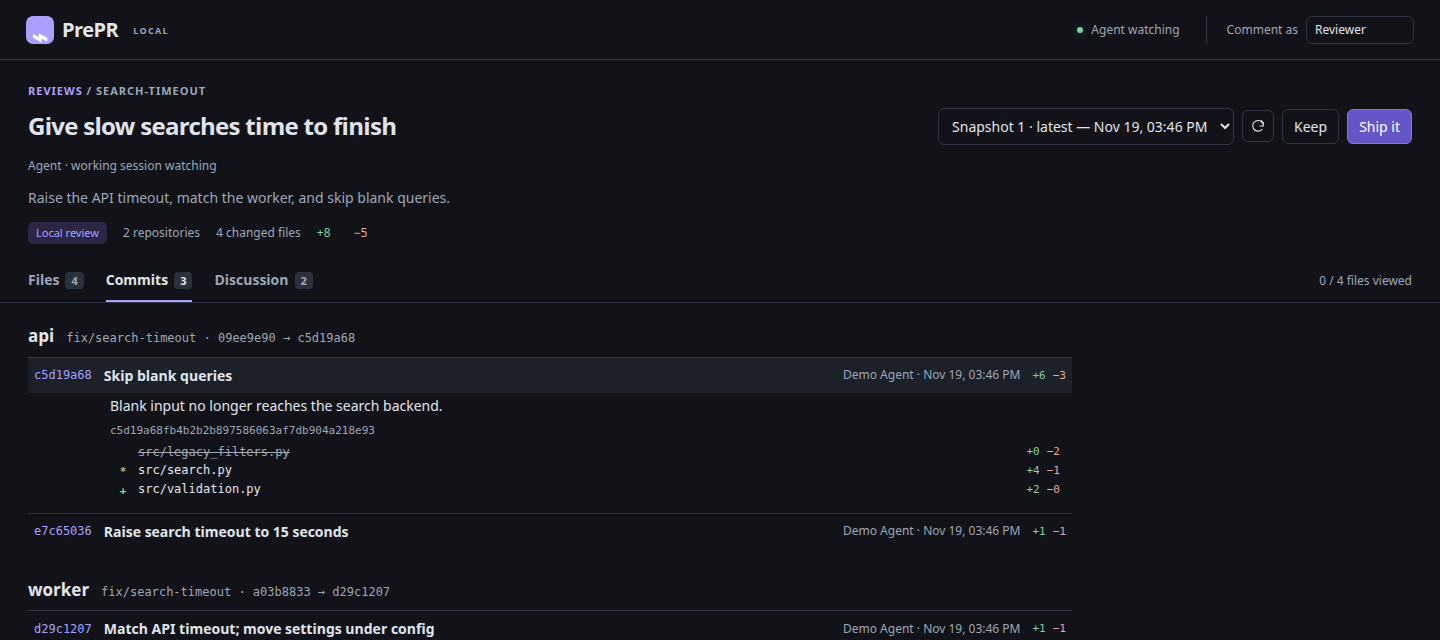
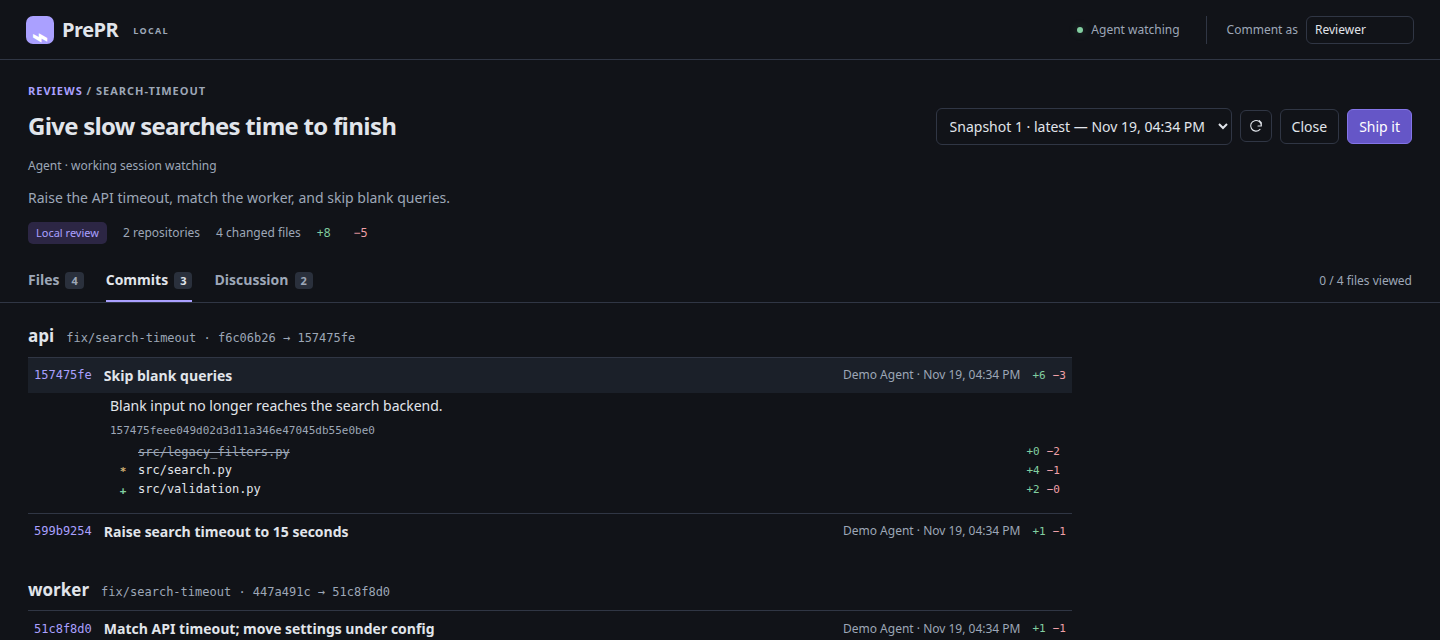
feat: rename Keep to Close; record PRs sent from chat
- Button Close, token Closed; decision action close, status closed.
- Old keep/kept rows migrate on start; API still accepts action keep.
- review.py close / mark-sent: chat-ended tasks leave Active (Closed or PR submitted).
- Skill: keep PrePR in step when PRs are sent or task ends in chat.
- READMEs, screenshots updated. Extension 0.2.1.

diff --git a/static/app.js b/static/app.js
@@ -91,7 +91,7 @@ function renderShell() {
   const tools=el('div','title-tools');const versions=el('select');versions.setAttribute('aria-label','Review snapshot');
   r.snapshots.forEach((v,i)=>{const o=el('option','',`Snapshot ${r.snapshots.length-i}${i===0?' · latest':''} — ${time(v.created)}`);o.value=v.id;versions.append(o);});versions.value=r.snapshot;
   versions.addEventListener('change',()=>{if(!canNavigate()){versions.value=r.snapshot;return;}openReview(r.id,Number(versions.value)).catch(e=>toast(e.message));});
-  tools.append(versions,iconBtn('Refresh','refresh',refresh),btn('Keep',()=>PreprLive.decide('keep'),'review-keep'),btn('Ship it',()=>PreprLive.decide('ship'),'primary review-ship'));title.append(tools);header.append(title);
+  tools.append(versions,iconBtn('Refresh','refresh',refresh),btn('Close',()=>PreprLive.decide('close'),'review-close'),btn('Ship it',()=>PreprLive.decide('ship'),'primary review-ship'));title.append(tools);header.append(title);
   header.append(el('div','live-review-status'));
   if(globalThis.PreprLive)PreprLive.refresh();
   if(r.description)header.append(el('p','description',r.description));
@@ -357,8 +357,8 @@ function renderDiscussion(){const panel=document.querySelector('.discussion');pa
   await openReview(state.review.id,null,selection);let node=document.querySelector(`[data-thread="${t.id}"]`);
   if(!node){await openReview(state.review.id,t.snapshot_id,selection);node=document.querySelector(`[data-thread="${t.id}"]`);}node?.scrollIntoView({block:'center'});},'anchor-link'),el('pre','anchor-code',t.side==='file'?'Comment on file':t.code),renderThread(t));panel.append(item);}
 }
-// Home: Active vs Completed (kept, shipped, blocked).
-const completed=r=>['kept','shipped','blocked'].includes(r.decision?.status);
+// Home: Active vs Completed (closed, shipped, blocked).
+const completed=r=>['closed','shipped','blocked'].includes(r.decision?.status);
 async function home(tab){
   if(tab)state.homeTab=tab;state.homeTab=state.homeTab||(new URLSearchParams(location.search).get('tab')==='completed'?'completed':'active');
   const reviews=await api('/api/reviews'),done=reviews.filter(completed),active=reviews.filter(r=>!completed(r));
@@ -373,14 +373,14 @@ async function home(tab){
   for(const r of list){
     const item=el('div','review-item'),link=el('a','review-link');link.href=`/?review=${encodeURIComponent(r.id)}`;link.append(el('h2','',r.title),el('p','',r.description));
     const meta=el('div','meta-line'),d=r.decision;meta.append(el('span','',r.id));
-    if(d){const [cls,text]={kept:['kept','Kept'],shipped:['shipped','PR submitted'],blocked:['blocked','Ship blocked'],requested:['pending','Ship requested'],preparing:['pending','Creating PRs']}[d.status];meta.append(el('span','status-token '+cls,text));}
+    if(d){const [cls,text]={closed:['closed','Closed'],shipped:['shipped','PR submitted'],blocked:['blocked','Ship blocked'],requested:['pending','Ship requested'],preparing:['pending','Creating PRs']}[d.status];meta.append(el('span','status-token '+cls,text));}
     if(!completed(r))meta.append(el('span','',`${r.openThreads} open threads`));
     meta.append(el('span','',`Updated ${time(r.updated)}`));link.append(meta);item.append(link);
     if(completed(r))item.append(iconBtn('Delete review','trash',async()=>{if(!await ask(`Delete “${r.title}” with its snapshots and comments? This cannot be undone.`,'Delete'))return;await api('/api/reviews/'+encodeURIComponent(r.id),{},'DELETE');toast('Review deleted');await home();},'delete-review'));
     page.append(item);
   }
   if(!list.length){const empty=el('div','empty-state');
-    if(state.homeTab==='completed')empty.append(el('h2','','No completed reviews'),el('p','','Reviews you Keep or Ship appear here.'));
+    if(state.homeTab==='completed')empty.append(el('h2','','No completed reviews'),el('p','','Reviews you Close or Ship appear here.'));
     else empty.append(el('h2','','Ready for your first review'),el('p','','Your agent publishes one through the prepr-review skill.'),el('code','','python3 review.py publish task.json'));
     page.append(empty);}
   app.replaceChildren(page);hostPost({type:'prepr:location',title:'Reviews',href:location.href});

diff --git a/static/live-review.js b/static/live-review.js
@@ -20,7 +20,7 @@
       state.watcher=w;paintActivity();
       state.review.decision=result.decision;
       for(const button of document.querySelectorAll('.review-ship'))button.disabled=!!result.decision;
-      for(const button of document.querySelectorAll('.review-keep'))button.disabled=!!result.decision;
+      for(const button of document.querySelectorAll('.review-close'))button.disabled=!!result.decision;
       for(const button of document.querySelectorAll('.review-edit'))button.disabled=!!result.decision;
       let feedback;
       if(result.watcher){
@@ -38,7 +38,7 @@
       const signature=JSON.stringify([result,feedback?.latestSnapshot]);if(holder.dataset.signature===signature)return;
       holder.dataset.signature=signature;holder.replaceChildren();
       if(result.decision){
-        const d=result.decision,labels={kept:'Kept locally · review closed',requested:'Ship it requested · waiting for the working agent',preparing:'Working agent preparing pull requests',shipped:'Pull requests created · review closed',blocked:'Shipping blocked · review closed'};
+        const d=result.decision,labels={closed:'Review closed · local work untouched',requested:'Ship it requested · waiting for the working agent',preparing:'Working agent preparing pull requests',shipped:'Pull requests created · review closed',blocked:'Shipping blocked · review closed'};
         holder.append(el('span','',labels[d.status]));
         if(d.result)holder.append(el('span','',d.result));
         return;
@@ -54,8 +54,8 @@
     if(!canNavigate())return;
     const rid=state.review.id;
     await api('/api/reviews/'+rid+'/decision',{action,snapshot:state.review.snapshot});
-    // Keep archives review; show Completed tab.
-    if(action==='keep'){lastCheck=0;watchedReview=null;indicator(false,'Not watching','No review open');state.review=null;history.replaceState(null,'','/?tab=completed');await home('completed');toast('Review kept · moved to Completed');return;}
+    // Close archives review; show Completed tab.
+    if(action==='close'){lastCheck=0;watchedReview=null;indicator(false,'Not watching','No review open');state.review=null;history.replaceState(null,'','/?tab=completed');await home('completed');toast('Review closed · moved to Completed');return;}
     await refresh();
   }};
   setInterval(()=>{if(lastCheck&&Date.now()-lastCheck>10000)indicator(false,'Status unavailable','Working-agent status is out of date');refresh();},2000);refresh();

diff --git a/static/style.css b/static/style.css
@@ -77,7 +77,7 @@
 
 .home-tabs{margin:0 0 8px;border-bottom:1px solid var(--border)}
 .review-item{display:flex;align-items:center;gap:16px;padding:0}.review-link{flex:1;min-width:0;display:block;color:var(--ink);padding:20px 0}.review-link:hover h2{color:var(--accent)}.review-link p{color:var(--muted);margin-top:6px}
-.status-token{border-radius:10px;padding:1px 9px;font-size:11px;font-weight:600}.status-token.shipped{color:#0f2a1b;background:var(--green)}.status-token.kept{color:var(--ink);background:#2a303c}
+.status-token{border-radius:10px;padding:1px 9px;font-size:11px;font-weight:600}.status-token.shipped{color:#0f2a1b;background:var(--green)}.status-token.closed{color:var(--ink);background:#2a303c}
 .status-token.blocked{color:#2a0f14;background:var(--red)}.status-token.pending{color:#e7cb89;background:#352e1d}.delete-review{color:var(--muted)}.delete-review:hover{color:var(--red)}
 .home-tabs+.review-item{border-top:0}
 .ask{background:var(--subtle);color:var(--ink);border:1px solid var(--border);border-radius:8px;padding:20px 22px;max-width:440px}.ask::backdrop{background:#0009}.ask p{line-height:1.5}.ask-actions{display:flex;justify-content:flex-end;gap:8px;margin-top:18px}button.danger{background:#5a2630;border-color:#8a3a48;color:#ffd9de}button.danger:hover{background:#6b2c38}

diff --git a/vscode/extension.js b/vscode/extension.js
@@ -101,7 +101,7 @@ async function pickReview() {
   let reviews;
   try { reviews = await (await fetch(base() + '/api/reviews', {signal: AbortSignal.timeout(5000)})).json(); }
   catch { return open(); }
-  const done = r => ['kept', 'shipped', 'blocked'].includes(r.decision?.status);
+  const done = r => ['closed', 'shipped', 'blocked'].includes(r.decision?.status);
   const items = [...reviews.filter(r => !done(r)), ...reviews.filter(done)].map(r => ({
     label: r.title, description: r.id, detail: done(r) ? `Completed · ${r.decision.status}` : `${r.openThreads ?? 0} open threads`, id: r.id,
   }));

diff --git a/tests/test_watch.py b/tests/test_watch.py
@@ -11,6 +11,7 @@ import uuid
 sys.path.insert(0, str(Path(__file__).resolve().parents[1]))
 import review
 import review_watch
+import live_review
 import server
 
 
@@ -94,26 +95,55 @@ class WatchTests(unittest.TestCase):
         review_watch.activity(review.api,self.state,'code',[tid]);self.api('/api/reviews/demo/watch',{'action':'stop'})
         self.assertEqual(view()['activity'],'idle')
 
-    def test_keep_archives_then_delete_removes(self):
+    def test_close_archives_then_delete_removes(self):
         tid=self.comment();self.start()
         with server.session() as db: db.execute('INSERT INTO viewed VALUES(?,?,?)',(self.sid,'app','a.py'))
         with self.assertRaises(ValueError):review.api(self.url,'/api/reviews/demo',{},'DELETE')
-        result=self.api('/api/reviews/demo/decision',{'action':'keep','snapshot':self.sid})
-        self.assertEqual(result['status'],'kept');self.assertEqual(result,self.api('/api/reviews/demo/decision',{'action':'keep'}))
-        self.assertEqual(self.poll()['status'],'kept');self.assertFalse(self.api('/api/reviews/demo/watch')['watcher']['active'])
-        self.assertEqual(self.api('/api/reviews')[0]['decision']['status'],'kept')
+        result=self.api('/api/reviews/demo/decision',{'action':'close','snapshot':self.sid})
+        self.assertEqual((result['action'],result['status']),('close','closed'));self.assertEqual(result,self.api('/api/reviews/demo/decision',{'action':'close'}))
+        self.assertEqual(result,self.api('/api/reviews/demo/decision',{'action':'keep'}),'old keep alias')
+        self.assertEqual(self.poll()['status'],'closed');self.assertFalse(self.api('/api/reviews/demo/watch')['watcher']['active'])
+        self.assertEqual(self.api('/api/reviews')[0]['decision']['status'],'closed')
         with self.assertRaises(ValueError):self.comment()
         with self.assertRaises(ValueError):self.api('/api/threads/'+tid+'/messages',{'author':'Reviewer','body':'Late'})
         self.assertEqual(review.api(self.url,'/api/reviews/demo',{},'DELETE'),{'status':'deleted'})
-        self.assertEqual(self.api('/api/reviews'),[]);self.assertEqual(self.poll()['status'],'kept')
+        self.assertEqual(self.api('/api/reviews'),[]);self.assertEqual(self.poll()['status'],'closed')
         with server.session() as db:
             for table in ['snapshots','threads','messages','viewed','review_watchers','review_decisions']:
                 self.assertEqual(db.execute(f'SELECT count(*) FROM {table}').fetchone()[0],0,table)
         self.payload['description']='new task';self.assertIn('snapshot',self.api('/api/reviews',self.payload))
 
-    def test_keep_and_delete_blocked_while_ship_in_flight(self):
+    def test_old_keep_rows_migrate_to_closed(self):
+        self.start()
+        with server.session() as db:
+            db.execute("INSERT INTO review_decisions(review_id,id,snapshot_id,action,status) VALUES('demo',?,?,'keep','kept')",('f'*32,self.sid))
+            live_review.init(db)
+        d=self.api('/api/reviews/demo')['decision'];self.assertEqual((d['action'],d['status']),('close','closed'))
+        self.assertEqual(self.poll()['status'],'closed')
+        self.assertEqual(review.api(self.url,'/api/reviews/demo',{},'DELETE'),{'status':'deleted'})
+
+    def test_prs_sent_from_chat_recorded(self):
+        self.start()
+        with self.assertRaises(ValueError):self.api('/api/reviews/demo/decision',{'action':'sent','result':' '})
+        d=self.api('/api/reviews/demo/decision',{'action':'sent','result':'app: https://example.invalid/pr/7'})
+        self.assertEqual((d['status'],d['result']),('shipped','app: https://example.invalid/pr/7'))
+        self.assertEqual(self.poll()['status'],'ship_requested')
+        with self.assertRaises(ValueError):self.api('/api/reviews/demo/decision',{'action':'sent','result':'again'})
+        self.assertEqual(review.api(self.url,'/api/reviews/demo',{},'DELETE'),{'status':'deleted'})
+
+    def test_closed_review_upgrades_to_sent_but_not_mid_ship(self):
+        self.api('/api/reviews/demo/decision',{'action':'close'})
+        d=self.api('/api/reviews/demo/decision',{'action':'sent','result':'app: https://example.invalid/pr/8'})
+        self.assertEqual(d['status'],'shipped')
+        self.payload['id']='other';other=self.api('/api/reviews',self.payload)['snapshot']
+        self.api('/api/reviews/other/decision',{'action':'ship','snapshot':other})
+        with self.assertRaises(ValueError):self.api('/api/reviews/other/decision',{'action':'sent','result':'x'})
+        out=subprocess.run([sys.executable,str(Path(__file__).resolve().parents[1]/'review.py'),'--url',self.url,'close','other'],capture_output=True,text=True)
+        self.assertNotEqual(out.returncode,0)
+
+    def test_close_and_delete_blocked_while_ship_in_flight(self):
         self.api('/api/reviews/demo/decision',{'action':'ship','snapshot':self.sid})
-        with self.assertRaises(ValueError):self.api('/api/reviews/demo/decision',{'action':'keep','snapshot':self.sid})
+        with self.assertRaises(ValueError):self.api('/api/reviews/demo/decision',{'action':'close','snapshot':self.sid})
         with self.assertRaises(ValueError):review.api(self.url,'/api/reviews/demo',{},'DELETE')
         self.assertEqual(self.api('/api/reviews/demo')['decision']['status'],'requested')
 

diff --git a/live_review.py b/live_review.py
@@ -13,6 +13,9 @@ def init(db):
         db.execute("ALTER TABLE review_watchers ADD COLUMN activity TEXT NOT NULL DEFAULT 'idle'")
         db.execute("ALTER TABLE review_watchers ADD COLUMN activity_threads TEXT NOT NULL DEFAULT '[]'")
     db.execute('CREATE TABLE IF NOT EXISTS review_decisions(review_id TEXT PRIMARY KEY REFERENCES reviews(id), id TEXT NOT NULL, snapshot_id INTEGER NOT NULL REFERENCES snapshots(id), action TEXT NOT NULL, status TEXT NOT NULL, result TEXT NOT NULL DEFAULT \'\', claimed_by TEXT)')
+    # Keep renamed Close: migrate old rows.
+    db.execute("UPDATE review_decisions SET action='close' WHERE action='keep'")
+    db.execute("UPDATE review_decisions SET status='closed' WHERE status='kept'")
 
 
 def decision(db, rid):
@@ -26,11 +29,11 @@ def require_open(db, rid):
 
 
 def delete_review(db, rid):
-    # Only completed reviews: kept, shipped or blocked.
+    # Only completed reviews: closed, shipped or blocked.
     db.execute('UPDATE reviews SET updated=updated WHERE id=?', (rid,))
     if not db.execute('SELECT 1 FROM reviews WHERE id=?', (rid,)).fetchone(): raise LookupError('Review not found')
     closed = decision(db, rid)
-    if not closed or closed['status'] not in ('kept', 'shipped', 'blocked'): raise ValueError('Only completed reviews can be deleted')
+    if not closed or closed['status'] not in ('closed', 'shipped', 'blocked'): raise ValueError('Only completed reviews can be deleted')
     remove(db, rid)
     return {'status': 'deleted'}
 
@@ -54,14 +57,25 @@ def decide(db, rid, data):
     if latest is None: raise LookupError('Review not found')
     existing = decision(db, rid)
     action = data.get('action')
-    if action in ('keep', 'ship'):
-        # Ship needs displayed snapshot; Keep archives latest.
+    if action == 'keep': action = 'close'  # old clients
+    if action in ('close', 'ship'):
+        # Ship needs displayed snapshot; Close archives latest.
         if action == 'ship' and data.get('snapshot') != latest: raise ValueError('Open the latest snapshot before closing this review')
         if existing:
             if existing['action'] == action and existing['snapshot_id'] == latest: return existing
             raise ValueError('Review already closed')
         db.execute('INSERT INTO review_decisions(review_id,id,snapshot_id,action,status) VALUES(?,?,?,?,?)',
-                   (rid,uuid.uuid4().hex,latest,action,'kept' if action=='keep' else 'requested'))
+                   (rid,uuid.uuid4().hex,latest,action,'closed' if action=='close' else 'requested'))
+        db.execute('UPDATE review_watchers SET stopped=1 WHERE review_id=?', (rid,))
+        return decision(db, rid)
+    if action == 'sent':
+        # PRs sent from chat, not Ship it button: record result. Upgrades closed.
+        result = data.get('result')
+        if not isinstance(result, str) or not 1 <= len(result.strip()) <= 4000: raise ValueError('PR result required')
+        if existing and existing['status'] in ('requested', 'preparing'): raise ValueError('Ship it in progress; record result with ship-result')
+        if existing and existing['status'] != 'closed': raise ValueError('Review already ' + existing['status'])
+        db.execute('INSERT OR REPLACE INTO review_decisions(review_id,id,snapshot_id,action,status,result) VALUES(?,?,?,?,?,?)',
+                   (rid, uuid.uuid4().hex, latest, 'ship', 'shipped', result.strip()))
         db.execute('UPDATE review_watchers SET stopped=1 WHERE review_id=?', (rid,))
         return decision(db, rid)
     if not existing or existing['action'] != 'ship': raise ValueError('No Ship it request for this review')
@@ -96,7 +110,7 @@ def watch(db, rid, data):
     db.execute('UPDATE review_watchers SET updated=updated WHERE review_id=?', (rid,))
     if not db.execute('SELECT 1 FROM reviews WHERE id=?', (rid,)).fetchone():
         # Deleted after completion; tell watcher.
-        if data.get('action') == 'heartbeat': return {'status': 'kept', 'removed': True}
+        if data.get('action') == 'heartbeat': return {'status': 'closed', 'removed': True}
         raise LookupError('Review not found')
     row = db.execute('SELECT * FROM review_watchers WHERE review_id=?', (rid,)).fetchone()
     action = data.get('action')
@@ -116,7 +130,7 @@ def watch(db, rid, data):
     elif action in ('heartbeat', 'activity'):
         if row is None or row['token'] != token: return {'status': 'replaced'}
         closed = decision(db,rid)
-        if closed: return {'status':'kept' if closed['action']=='keep' else 'ship_requested', 'decision':closed}
+        if closed: return {'status':'closed' if closed['action']=='close' else 'ship_requested', 'decision':closed}
         if row['stopped']: return {'status': 'stopped'}
         if not active['active']: return {'status': 'expired'}
         if action == 'activity':
@@ -130,7 +144,7 @@ def watch(db, rid, data):
     closed = decision(db,rid)
     if closed:
         db.execute('UPDATE review_watchers SET stopped=1 WHERE review_id=?',(rid,))
-        return {'status':'kept' if closed['action']=='keep' else 'ship_requested','decision':closed}
+        return {'status':'closed' if closed['action']=='close' else 'ship_requested','decision':closed}
     return {'status': 'watching'}
 
 

diff --git a/review.py b/review.py
@@ -376,6 +376,10 @@ def main():
     p.add_argument('--pr-platform', choices=PR_PLATFORMS)
     p.add_argument('--pr-access', help='How agent reaches PR platform: CLI, account, org/project, target branch')
     sub.add_parser('vscode-install', help='Build and install the PrePR VS Code extension')
+    p = sub.add_parser('close', help='Close review without PR (same as Close button)')
+    p.add_argument('review')
+    p = sub.add_parser('mark-sent', help='Record PRs sent from chat: review moves to Completed, PR submitted')
+    p.add_argument('review'); p.add_argument('--body', required=True, help='Repository: PR URL, one per line')
     p = sub.add_parser('open', help='Open review: VS Code panel when installed, else browser')
     p.add_argument('review'); p.add_argument('--snapshot', type=int)
     args = parser.parse_args()
@@ -429,6 +433,10 @@ def main():
         print(json.dumps(setup_status(cfg), indent=2, ensure_ascii=False))
     elif args.command == 'vscode-install':
         print(json.dumps(vscode_install(), indent=2))
+    elif args.command == 'close':
+        print(json.dumps(api(args.url, '/api/reviews/' + args.review + '/decision', {'action': 'close'}), indent=2))
+    elif args.command == 'mark-sent':
+        print(json.dumps(api(args.url, '/api/reviews/' + args.review + '/decision', {'action': 'sent', 'result': args.body}), indent=2))
     elif args.command == 'open':
         print(json.dumps(open_review(args.url, args.review, args.snapshot), indent=2))
     else:

diff --git a/skills/prepr-review/SKILL.md b/skills/prepr-review/SKILL.md
@@ -111,7 +111,7 @@ python3 review.py watch --state /path/to/.local/watch.json --timeout 45
 - Stop when user says done/stop, or helper returns `stopped`, `expired` or `replaced`. Chat stop or
   task switch: `watch-stop --state ...` if possible; record pending work. API failure: report it;
   never loop forever.
-- Check heartbeat before each new edit/reply batch. `kept`: user pressed Keep; review archived
+- Check heartbeat before each new edit/reply batch. `closed`: user pressed Close; review archived
   read-only in Completed (user may delete it later). Stop comment work, keep local work, publish
   nothing remotely.
   `ship_requested`: leave comment watching, enter Ship it handoff. Both decisions beat pending
@@ -148,6 +148,22 @@ python3 review.py watch --state /path/to/.local/watch.json --timeout 45
   request; inspect existing remote work first.
 - Queued request cannot wake finished agent. On explicit return to original session,
   `watch-start` surfaces saved decision instead of restarting comment polling.
+
+## Task ended in chat
+
+Keep PrePR in step with what happened. Review must not stay **Active** once its task ended.
+
+- User asks in chat (not **Ship it**) to push/open PRs for change set with a PrePR review: do it as
+  normal task work. Code changed since last snapshot: republish first, so review shows what was sent.
+  Then, after PRs verified:
+  `python3 review.py mark-sent REVIEW_ID --body 'repo: PR URL'` (one line per repo). Review moves
+  to **Completed**, green **PR submitted**. Works on a closed review too.
+- Ship it already requested for that review: use **Ship it handoff** flow (`ship-result`), not
+  `mark-sent`.
+- User drops or finishes task in chat without PR (abandon, keep local, done): `python3 review.py
+  close REVIEW_ID` (same as **Close** button).
+- Partial PRs or failure: no `mark-sent`; report in chat, leave review open.
+- Both stop the watcher; then stop watching.
 
 ## Boundaries
 

diff --git a/README.md b/README.md
@@ -59,13 +59,17 @@ External links go to your browser. Page may be framed only by itself and VS Code
    **Open updated diff** loads new snapshot. Earlier threads stay visible on new code and in
    **Discussion**.
 5. Finish, top right:
-   - **Keep**: keep local changes, stop watching, move review to **Completed** (read-only).
+   - **Close**: stop watching, leave local changes as they are, move review to **Completed**
+     (read-only).
    - **Ship it**: agent pushes PR branches, opens real PRs (one per affected repo) for exact
      snapshot shown. Never merges or deploys. Done: review moves to **Completed** with green
      **PR submitted** token.
 
 Several tasks at once: each gets own review, watcher and PRs; in VS Code each review gets own tab.
 Tasks sharing a repo need own worktree each.
+
+PRs sent from chat instead of **Ship it**: agent runs `review.py mark-sent ID --body 'repo: URL'`
+(**PR submitted**). Task dropped in chat: `review.py close ID`.
 
 Home page: **Active** and **Completed** tabs. Completed reviews stay archived until you delete
 them (trash icon).
@@ -77,7 +81,7 @@ No live watch also works: tell agent to read feedback when done commenting.
 
 ![Commits tab: commits per repo with expanded details](docs/assets/commits.png)
 
-![Completed tab: shipped review with PR submitted token, kept review](docs/assets/completed.png)
+![Completed tab: shipped review with PR submitted token, closed review](docs/assets/completed.png)
 
 | | |
 | --- | --- |

diff --git a/vscode/README.md b/vscode/README.md
@@ -1,7 +1,7 @@
 # PrePR for VS Code
 
 Review your agent's changes before the pull request, right beside your code.
-Same PrePR page (Files, Commits, Discussion, Keep, Ship it), in a slicker VS Code tab.
+Same PrePR page (Files, Commits, Discussion, Close, Ship it), in a slicker VS Code tab.
 
 ## Open a review
 
